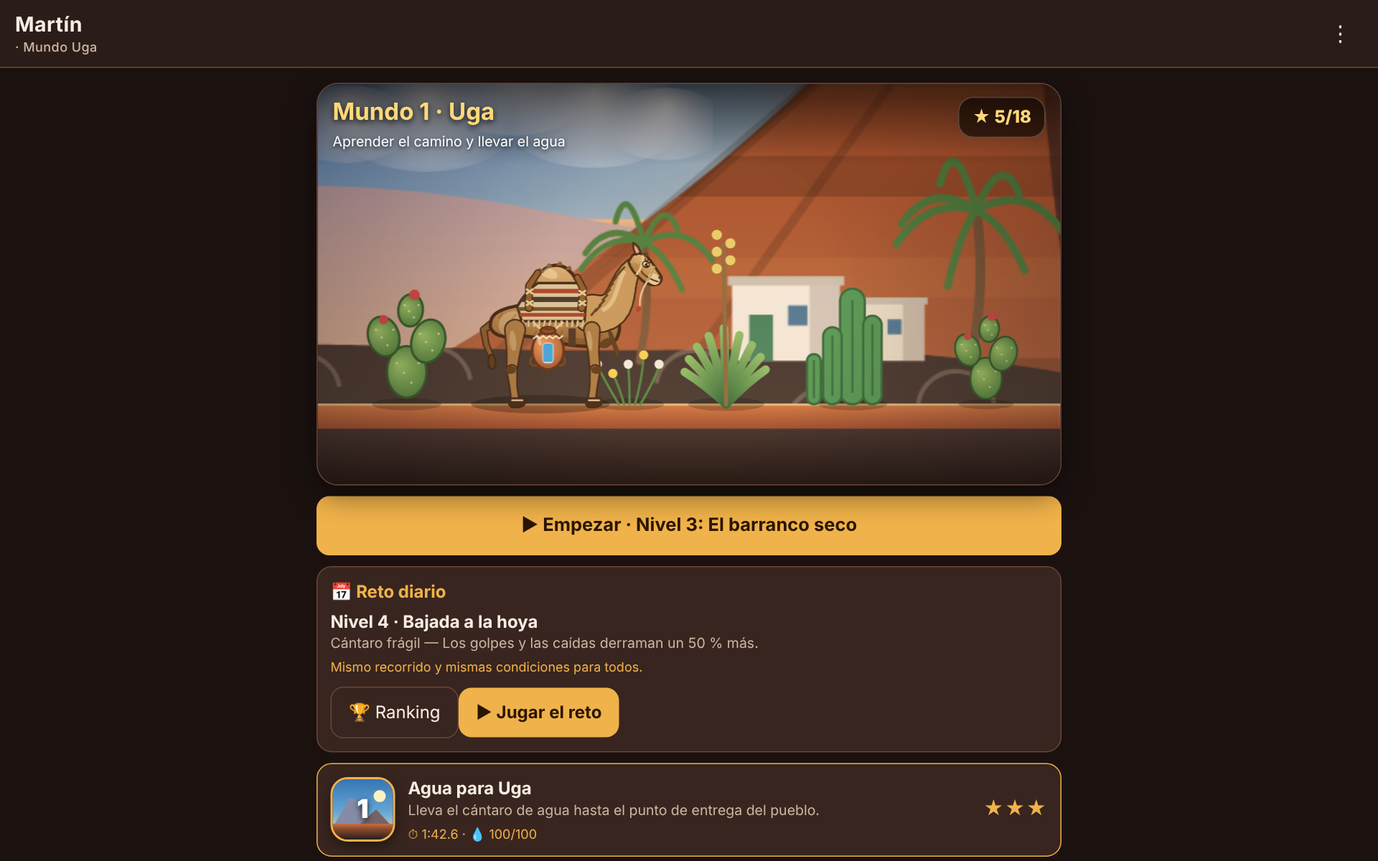
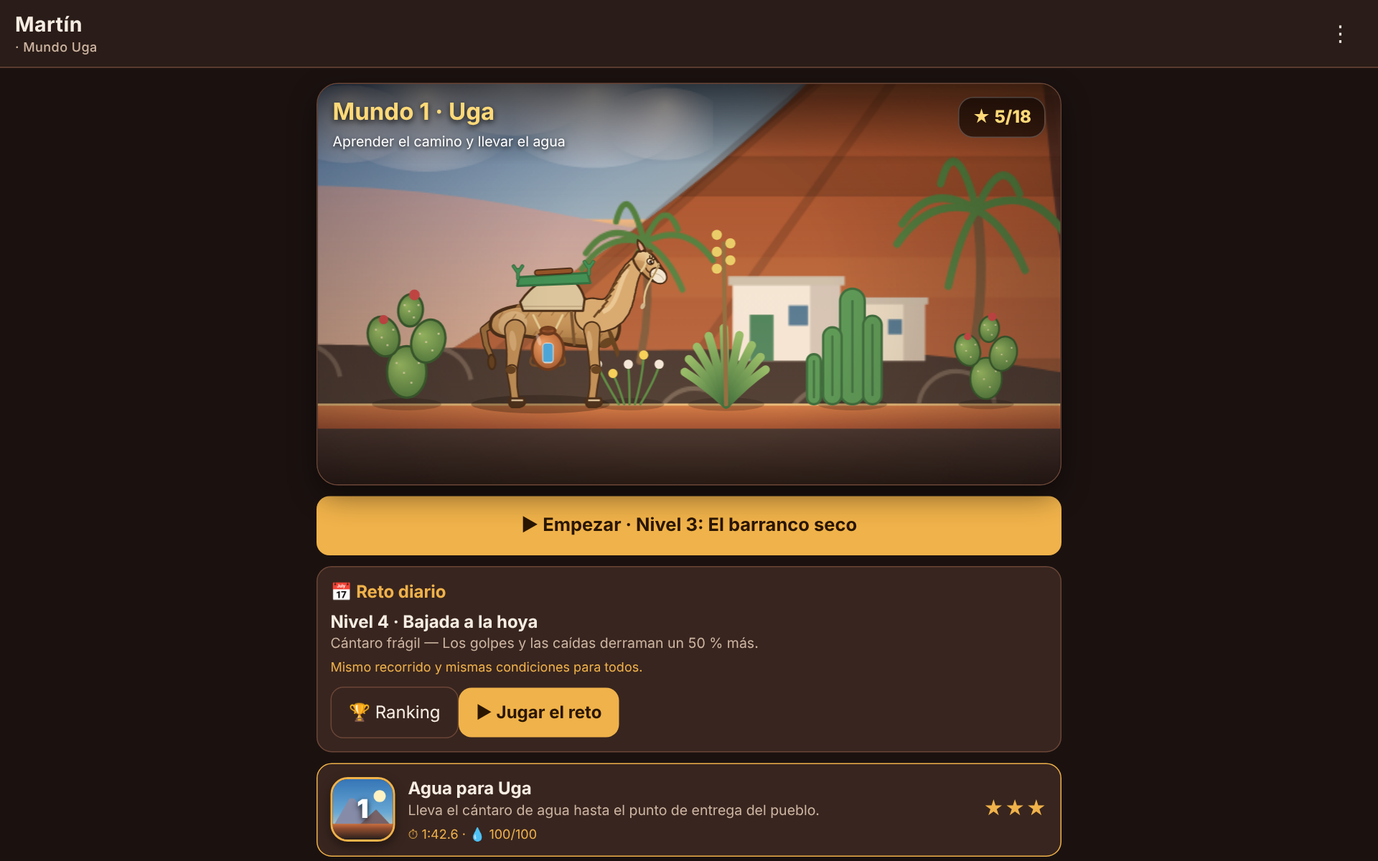
1.6.0: camello como los de Timanfaya (silla verde con asiento de cuero, manta acolchada, bozal de tela, pelaje claro)
Claude-Session: https://claude.ai/code/session_01H2Jf8v1MHtV6zTpVoU4WWj

Changed region(s): [[0.375, 0.2775, 0.5, 0.4008], [0.4688, 0.4008, 0.5, 0.4625], [0.2188, 0.4008, 0.25, 0.4317]]

diff --git a/docs/app/dibujo.js b/docs/app/dibujo.js
@@ -87,7 +87,7 @@
   function suelo(L, x, y) { let best = L.world.kill_y; for (const s of L.solids) if (s.kind !== 'oneway' && s.x0 <= x && s.x1 >= x && s.top <= y + 0.05 && s.top > best) best = s.top; return best; }
 
   /* ================== MARTÍN ================== */
-  const PEL = { luz: '#dcb67c', claro: '#c79a5e', medio: '#aa7b45', sombra: '#86592f', osc: '#5a3a1c', borde: '#3a2312', hocico: '#e6cfa0' };
+  const PEL = { luz: '#ead0a0', claro: '#d6ac74', medio: '#bd8f58', sombra: '#93693a', osc: '#5a3a1c', borde: '#3a2312', hocico: '#ecd9b4' };
 
   /* Trazo cónico (muslo, caña, cuello): primero el contorno, luego el relleno, para que no se vean costuras */
   function conico(ctx, pts, ws, fill, borde, lw) {
@@ -135,11 +135,14 @@
     // ventana de la nariz y boca sonriente
     ctx.fillStyle = '#4a2e17'; ctx.beginPath(); ctx.ellipse(0.4, -0.045, 0.016, 0.026, 0.5, 0, TAU); ctx.fill();
     ctx.strokeStyle = '#4a2e17'; ctx.lineWidth = 0.024; ctx.lineCap = 'round'; ctx.beginPath(); ctx.moveTo(0.41, -0.115); ctx.quadraticCurveTo(0.27, -0.15, 0.13, -0.115); ctx.quadraticCurveTo(0.1, -0.108, 0.09, -0.09); ctx.stroke();
+    // bozal de tela clara (como el de los camellos de Timanfaya)
+    ctx.fillStyle = '#f2ecdd'; ctx.strokeStyle = PEL.borde; ctx.lineWidth = 0.025; ctx.beginPath(); ctx.ellipse(0.33, -0.1, 0.15, 0.12, -0.2, 0, TAU); ctx.fill(); ctx.stroke();
+    ctx.strokeStyle = 'rgba(120,100,70,.4)'; ctx.lineWidth = 0.012; ctx.beginPath(); ctx.moveTo(0.22, -0.12); ctx.quadraticCurveTo(0.33, -0.04, 0.44, -0.12); ctx.stroke();
     // cabezada de cuerda natural
     ctx.strokeStyle = '#e4cf9a'; ctx.lineWidth = 0.036; ctx.beginPath(); ctx.moveTo(0.24, 0.07); ctx.quadraticCurveTo(0.27, -0.06, 0.25, -0.19); ctx.moveTo(-0.02, 0.17); ctx.quadraticCurveTo(0.08, -0.04, 0.04, -0.17); ctx.stroke();
     ctx.strokeStyle = '#8a6a3a'; ctx.lineWidth = 0.014; ctx.beginPath(); ctx.moveTo(0.24, 0.07); ctx.quadraticCurveTo(0.27, -0.06, 0.25, -0.19); ctx.stroke();
     // ramal de arrastre con borla
-    const rs = Math.sin(T * 2.3) * 0.03; ctx.strokeStyle = '#e4cf9a'; ctx.lineWidth = 0.03; ctx.beginPath(); ctx.moveTo(0.25, -0.2); ctx.quadraticCurveTo(0.2 + rs, -0.45, 0.28 + rs * 2, -0.62); ctx.stroke(); ctx.fillStyle = '#b3402a'; ctx.beginPath(); ctx.ellipse(0.28 + rs * 2, -0.67, 0.035, 0.055, rs, 0, TAU); ctx.fill();
+    const rs = Math.sin(T * 2.3) * 0.03; ctx.strokeStyle = '#e4cf9a'; ctx.lineWidth = 0.03; ctx.beginPath(); ctx.moveTo(0.25, -0.2); ctx.quadraticCurveTo(0.2 + rs, -0.45, 0.28 + rs * 2, -0.62); ctx.stroke(); ctx.fillStyle = '#cdb994'; ctx.beginPath(); ctx.ellipse(0.28 + rs * 2, -0.67, 0.035, 0.055, rs, 0, TAU); ctx.fill();
     // oreja
     const fl = Math.sin(T * 2.7) > 0.93 ? 0.35 : 0;
     ctx.save(); ctx.translate(-0.1, 0.14); ctx.rotate(0.55 + fl); ctx.fillStyle = PEL.medio; ctx.strokeStyle = PEL.borde; ctx.lineWidth = 0.03;
@@ -189,8 +192,8 @@
     // cuerpo: lomo, joroba única, pecho hondo y vientre recogido
     ctx.beginPath(); ctx.moveTo(-0.88, 1.12 + B);
     ctx.bezierCurveTo(-0.86, 1.26 + B, -0.62, 1.32 + B, -0.42, 1.34 + B);
-    ctx.bezierCurveTo(-0.34, 1.5 + B, -0.3, 1.75 + B, -0.1, 1.86 + B);
-    ctx.bezierCurveTo(0.1, 1.94 + B, 0.28, 1.8 + B, 0.34, 1.52 + B);
+    ctx.bezierCurveTo(-0.34, 1.48 + B, -0.3, 1.66 + B, -0.1, 1.72 + B);
+    ctx.bezierCurveTo(0.1, 1.78 + B, 0.28, 1.68 + B, 0.34, 1.5 + B);
     ctx.bezierCurveTo(0.38, 1.4 + B, 0.5, 1.36 + B, 0.62, 1.38 + B);
     ctx.bezierCurveTo(0.8, 1.3 + B, 0.95, 1.12 + B, 0.84, 0.88 + B);
     ctx.bezierCurveTo(0.7, 0.72 + B, 0.25, 0.76 + B, -0.1, 0.86 + B);
@@ -209,31 +212,30 @@
     ctx.fillStyle = PEL.osc; ctx.beginPath(); ctx.ellipse(0.7, 0.82 + B, 0.1, 0.06, 0.5, 0, TAU); ctx.fill();   // callo del pecho
     // pelo largo en lo alto de la joroba y en la pechera
     ctx.fillStyle = PEL.sombra; ctx.strokeStyle = PEL.borde; ctx.lineWidth = 0.02; ctx.lineJoin = 'round';
-    [[-0.28, 1.68], [-0.2, 1.8], [-0.08, 1.87], [0.06, 1.9], [0.18, 1.84], [0.28, 1.7]].forEach(([x, y], i) => { const o = Math.sin(T * 2 + i) * 0.012; ctx.beginPath(); ctx.moveTo(x - 0.045, y + B - 0.02); ctx.quadraticCurveTo(x + (i - 2.5) * 0.02, y + B + 0.1 + o, x + 0.045, y + B - 0.02); ctx.closePath(); ctx.fill(); });
+    [[-0.5, 1.3], [0.45, 1.36]].forEach(([x, y], i) => { ctx.beginPath(); ctx.moveTo(x - 0.04, y + B); ctx.quadraticCurveTo(x, y + B + 0.1, x + 0.04, y + B); ctx.closePath(); ctx.fill(); });
     ctx.fillStyle = PEL.osc; for (let i = 0; i < 5; i++) { const x = 0.74 + i * 0.02, y = 1.02 - i * 0.05 + B; ctx.beginPath(); ctx.moveTo(x, y); ctx.quadraticCurveTo(x + 0.1, y - 0.14 + Math.sin(T * 2 + i) * 0.01, x + 0.02, y - 0.2); ctx.lineTo(x - 0.03, y - 0.02); ctx.closePath(); ctx.fill(); }
     // cuello largo en S, saliendo del pecho
     const sway = Math.sin(ph * 0.5) * (corre ? 0.04 : 0.01) + Math.sin(T * 1.7) * 0.012, tip = anim === 'salta' ? 0.06 : anim === 'cae' ? -0.1 : 0;
-    const N = [[0.5, 1.22 + B], [1.0, 1.16 + B], [0.82, 1.7 + B], [1.12, 1.9 + B + tip]];
+    const N = [[0.5, 1.2 + B], [1.02, 1.12 + B], [0.84, 1.72 + B], [1.18, 1.94 + B + tip]];
     const cub = q => { const m = 1 - q; return [m * m * m * N[0][0] + 3 * m * m * q * N[1][0] + 3 * m * q * q * N[2][0] + q * q * q * N[3][0], m * m * m * N[0][1] + 3 * m * m * q * N[1][1] + 3 * m * q * q * N[2][1] + q * q * q * N[3][1]]; };
-    const pts = [], ws = []; for (let i = 0; i <= 12; i++) { const q = i / 12; pts.push(cub(q)); ws.push(0.5 - q * 0.3 + Math.sin(q * Math.PI) * 0.02); }
+    const pts = [], ws = []; for (let i = 0; i <= 12; i++) { const q = i / 12; pts.push(cub(q)); ws.push(0.44 - q * 0.27 + Math.sin(q * Math.PI) * 0.015); }
     conico(ctx, pts, ws, PEL.claro, PEL.borde, 0.045);
     ctx.strokeStyle = 'rgba(255,240,200,.45)'; ctx.lineWidth = 0.06; ctx.beginPath(); for (let i = 2; i <= 10; i++) { const [x, y] = pts[i]; i === 2 ? ctx.moveTo(x - 0.06, y + 0.03) : ctx.lineTo(x - 0.06, y + 0.03); } ctx.stroke();
     ctx.strokeStyle = PEL.osc; ctx.lineWidth = 0.028; for (let i = 3; i < 12; i++) { const [x, y] = pts[i]; ctx.beginPath(); ctx.moveTo(x - ws[i] * 0.45, y + 0.02); ctx.lineTo(x - ws[i] * 0.45 - 0.08, y - 0.07 + Math.sin(T * 3 + i) * 0.01); ctx.stroke(); }
     ctx.fillStyle = PEL.osc; ctx.beginPath(); ctx.moveTo(pts[3][0] + 0.18, pts[3][1] - 0.2); for (let i = 3; i <= 7; i++) { const [x, y] = pts[i]; ctx.lineTo(x + ws[i] * 0.42, y - 0.12 * (1 - (i - 3) / 5) - ws[i] * 0.2); } ctx.globalAlpha *= 0; ctx.fill(); ctx.globalAlpha = st.alpha == null ? 1 : st.alpha;
     // cabeza (pequeña, con el belfo caído)
     ctx.save(); ctx.translate(pts[12][0] + 0.03, pts[12][1] + 0.0); ctx.rotate(-0.5 - tip * 0.8 + sway); ctx.scale(0.82, 0.82); cabeza(ctx, T, st); ctx.restore();
-    // armazón de madera (dos horcones que abrazan la joroba), manta de lana y cincha
-    const madera = '#8d5a2c';
-    ctx.beginPath(); ctx.moveTo(-0.46, 1.12 + B); ctx.lineTo(-0.52, 1.32 + B); ctx.bezierCurveTo(-0.42, 1.5 + B, -0.3, 1.6 + B, -0.24, 1.64 + B); ctx.lineTo(0.3, 1.64 + B); ctx.bezierCurveTo(0.36, 1.58 + B, 0.4, 1.5 + B, 0.42, 1.4 + B); ctx.lineTo(0.4, 1.12 + B); ctx.closePath();
-    ctx.fillStyle = '#d9c7a0'; ctx.fill(); ctx.strokeStyle = PEL.borde; ctx.lineWidth = 0.035; ctx.stroke();
-    ctx.save(); ctx.clip();
-    for (const [yy, c, w] of [[1.5, '#a8402a', 0.06], [1.38, '#3d322b', 0.07], [1.26, '#6b4a2b', 0.05], [1.18, '#a8402a', 0.05]]) { ctx.fillStyle = c; ctx.fillRect(-0.7, yy + B, 1.3, w); }
-    ctx.restore();
-    ctx.strokeStyle = '#d9c7a0'; ctx.lineWidth = 0.026; for (let i = 0; i < 12; i++) { const x = -0.44 + i * 0.075; ctx.beginPath(); ctx.moveTo(x, 1.13 + B); ctx.lineTo(x - 0.01 + Math.sin(ph + i) * 0.012, 1.04 + B); ctx.stroke(); }
-    conico(ctx, [[-0.36, 1.3 + B], [-0.36, 1.6 + B], [-0.24, 1.78 + B]], [0.08, 0.07, 0.06], madera, PEL.borde, 0.035);
-    conico(ctx, [[0.36, 1.3 + B], [0.38, 1.56 + B], [0.3, 1.72 + B]], [0.08, 0.07, 0.06], madera, PEL.borde, 0.035);
-    ctx.strokeStyle = '#e4cf9a'; ctx.lineWidth = 0.028; for (const [x, y] of [[-0.35, 1.52], [0.37, 1.5], [-0.35, 1.36], [0.37, 1.36]]) { ctx.beginPath(); ctx.moveTo(x - 0.05, y - 0.03 + B); ctx.lineTo(x + 0.05, y + 0.04 + B); ctx.moveTo(x - 0.05, y + 0.04 + B); ctx.lineTo(x + 0.05, y - 0.03 + B); ctx.stroke(); }
-    ctx.fillStyle = '#4a3322'; ctx.fillRect(0.18, 0.78 + B, 0.1, 0.24);   // cincha bajo el vientre
+    // manta acolchada beige y silla de carga verde con asientos de cuero (como las de Timanfaya)
+    const verde = '#2f8f55', verdeO = '#1f6a3d', cuero = '#8a4a22';
+    ctx.beginPath(); ctx.moveTo(-0.44, 1.26 + B); ctx.lineTo(-0.48, 1.38 + B); ctx.bezierCurveTo(-0.4, 1.5 + B, -0.28, 1.62 + B, -0.2, 1.64 + B); ctx.lineTo(0.28, 1.64 + B); ctx.bezierCurveTo(0.34, 1.58 + B, 0.38, 1.5 + B, 0.4, 1.42 + B); ctx.lineTo(0.38, 1.26 + B); ctx.closePath();
+    ctx.fillStyle = '#d8c9a4'; ctx.fill(); ctx.strokeStyle = PEL.borde; ctx.lineWidth = 0.03; ctx.stroke();
+    ctx.strokeStyle = 'rgba(120,95,65,.35)'; ctx.lineWidth = 0.014; ctx.beginPath(); ctx.moveTo(-0.45, 1.32 + B); ctx.lineTo(0.39, 1.32 + B); ctx.stroke();
+    // asiento verde inclinado con cojín de cuero y horquillas en los extremos
+    ctx.beginPath(); ctx.moveTo(-0.52, 1.6 + B); ctx.lineTo(-0.5, 1.72 + B); ctx.lineTo(0.44, 1.78 + B); ctx.lineTo(0.48, 1.64 + B); ctx.closePath(); ctx.fillStyle = verde; ctx.fill(); ctx.strokeStyle = verdeO; ctx.lineWidth = 0.03; ctx.stroke();
+    ctx.save(); ctx.translate(-0.02, 1.76 + B); ctx.rotate(0.06); ctx.fillStyle = cuero; rr(ctx, -0.26, 0, 0.52, 0.07, 0.035); ctx.fill(); ctx.strokeStyle = PEL.borde; ctx.lineWidth = 0.018; ctx.stroke(); ctx.restore();
+    for (const [x, s, y] of [[-0.51, -1, 1.7], [0.46, 1, 1.76]]) { ctx.lineCap = 'round'; for (const [c, w] of [[verdeO, 0.05], [verde, 0.028]]) { ctx.strokeStyle = c; ctx.lineWidth = w; ctx.beginPath(); ctx.moveTo(x, y + B); ctx.lineTo(x, y + 0.12 + B); ctx.moveTo(x, y + 0.08 + B); ctx.lineTo(x + 0.06, y + 0.17 + B); ctx.moveTo(x, y + 0.08 + B); ctx.lineTo(x - 0.06, y + 0.17 + B); ctx.stroke(); } }
+    // correa de pecho y cincha
+    ctx.strokeStyle = '#6b4a2b'; ctx.lineWidth = 0.04; ctx.beginPath(); ctx.moveTo(0.22, 1.24 + B); ctx.lineTo(0.26, 0.8 + B); ctx.stroke();
     ctx.restore();
     // patas cercanas
     ctx.save(); ctx.translate(0, hipY); ctx.rotate(cabeceo * 0.4); ctx.translate(0, -hipY);
@@ -242,14 +244,14 @@
     // tinaja colgada de la silla con cuerdas, entre las patas
     ctx.save(); ctx.translate(0, hipY); ctx.rotate(cabeceo); ctx.translate(0, -hipY);
     const jx = -0.1, jy = 0.52 + B + (anim === 'gana' ? 0.14 : 0) + (corre ? Math.sin(ph * 2) * 0.014 : 0);
-    ctx.strokeStyle = '#e4cf9a'; ctx.lineWidth = 0.03; ctx.lineCap = 'round'; ctx.beginPath(); ctx.moveTo(jx - 0.11, jy + 0.5); ctx.lineTo(jx - 0.2, 1.1 + B); ctx.moveTo(jx + 0.11, jy + 0.5); ctx.lineTo(jx + 0.2, 1.1 + B); ctx.stroke();
+    ctx.strokeStyle = '#e4cf9a'; ctx.lineWidth = 0.03; ctx.lineCap = 'round'; ctx.beginPath(); ctx.moveTo(jx - 0.11, jy + 0.5); ctx.lineTo(jx - 0.2, 1.2 + B); ctx.moveTo(jx + 0.11, jy + 0.5); ctx.lineTo(jx + 0.2, 1.2 + B); ctx.stroke();
     ctx.translate(jx, jy); ctx.scale(0.9, 0.9); ctx.translate(-jx, -jy);
     ctx.strokeStyle = '#6a4424'; ctx.lineWidth = 0.034; ctx.beginPath(); ctx.moveTo(jx - 0.22, jy + 0.16); ctx.quadraticCurveTo(jx - 0.36, jy - 0.04, jx - 0.1, jy - 0.01); ctx.moveTo(jx + 0.22, jy + 0.16); ctx.quadraticCurveTo(jx + 0.34, jy - 0.03, jx + 0.1, jy - 0.01); ctx.stroke();
     ctx.beginPath(); ctx.ellipse(jx, jy + 0.22, 0.24, 0.29, 0, 0, TAU);
     g = ctx.createRadialGradient(jx - 0.09, jy + 0.34, 0.02, jx, jy + 0.22, 0.34); g.addColorStop(0, '#e89862'); g.addColorStop(0.6, COL.cantaro); g.addColorStop(1, COL.cantaro2); ctx.fillStyle = g; ctx.fill(); ctx.strokeStyle = '#5e2f17'; ctx.lineWidth = 0.04; ctx.stroke();
     ctx.fillStyle = COL.cantaro2; ctx.beginPath(); ctx.ellipse(jx, jy + 0.52, 0.11, 0.055, 0, 0, TAU); ctx.fill(); ctx.stroke();
     ctx.fillStyle = '#6a3518'; ctx.beginPath(); ctx.ellipse(jx, jy + 0.55, 0.08, 0.028, 0, 0, TAU); ctx.fill();
-    ctx.strokeStyle = 'rgba(255,240,200,.9)'; ctx.lineWidth = 0.024; ctx.beginPath(); for (let i = 0; i <= 9; i++) { const x = jx - 0.22 + i * 0.049, y = jy + 0.4 + (i % 2) * 0.04; i ? ctx.lineTo(x, y) : ctx.moveTo(x, y); } ctx.stroke();
+    ctx.strokeStyle = 'rgba(90,45,22,.45)'; ctx.lineWidth = 0.02; ctx.beginPath(); ctx.ellipse(jx, jy + 0.22, 0.23, 0.28, 0, Math.PI * 0.12, Math.PI * 0.88); ctx.stroke();
     ctx.fillStyle = '#0d2233'; rr(ctx, jx - 0.08, jy + 0.03, 0.16, 0.3, 0.05); ctx.fill();
     ctx.save(); rr(ctx, jx - 0.08, jy + 0.03, 0.16, 0.3, 0.05); ctx.clip();
     const bajo = f < 0.3, hh = 0.3 * f; ctx.fillStyle = bajo ? '#ffd24a' : COL.agua; ctx.fillRect(jx - 0.1, jy + 0.03 + (0.3 - hh), 0.2, hh + 0.01); ctx.fillStyle = 'rgba(255,255,255,.55)'; ctx.fillRect(jx - 0.1, jy + 0.03 + (0.3 - hh), 0.2, 0.02);

diff --git a/www/dibujo.js b/www/dibujo.js
@@ -87,7 +87,7 @@
   function suelo(L, x, y) { let best = L.world.kill_y; for (const s of L.solids) if (s.kind !== 'oneway' && s.x0 <= x && s.x1 >= x && s.top <= y + 0.05 && s.top > best) best = s.top; return best; }
 
   /* ================== MARTÍN ================== */
-  const PEL = { luz: '#dcb67c', claro: '#c79a5e', medio: '#aa7b45', sombra: '#86592f', osc: '#5a3a1c', borde: '#3a2312', hocico: '#e6cfa0' };
+  const PEL = { luz: '#ead0a0', claro: '#d6ac74', medio: '#bd8f58', sombra: '#93693a', osc: '#5a3a1c', borde: '#3a2312', hocico: '#ecd9b4' };
 
   /* Trazo cónico (muslo, caña, cuello): primero el contorno, luego el relleno, para que no se vean costuras */
   function conico(ctx, pts, ws, fill, borde, lw) {
@@ -135,11 +135,14 @@
     // ventana de la nariz y boca sonriente
     ctx.fillStyle = '#4a2e17'; ctx.beginPath(); ctx.ellipse(0.4, -0.045, 0.016, 0.026, 0.5, 0, TAU); ctx.fill();
     ctx.strokeStyle = '#4a2e17'; ctx.lineWidth = 0.024; ctx.lineCap = 'round'; ctx.beginPath(); ctx.moveTo(0.41, -0.115); ctx.quadraticCurveTo(0.27, -0.15, 0.13, -0.115); ctx.quadraticCurveTo(0.1, -0.108, 0.09, -0.09); ctx.stroke();
+    // bozal de tela clara (como el de los camellos de Timanfaya)
+    ctx.fillStyle = '#f2ecdd'; ctx.strokeStyle = PEL.borde; ctx.lineWidth = 0.025; ctx.beginPath(); ctx.ellipse(0.33, -0.1, 0.15, 0.12, -0.2, 0, TAU); ctx.fill(); ctx.stroke();
+    ctx.strokeStyle = 'rgba(120,100,70,.4)'; ctx.lineWidth = 0.012; ctx.beginPath(); ctx.moveTo(0.22, -0.12); ctx.quadraticCurveTo(0.33, -0.04, 0.44, -0.12); ctx.stroke();
     // cabezada de cuerda natural
     ctx.strokeStyle = '#e4cf9a'; ctx.lineWidth = 0.036; ctx.beginPath(); ctx.moveTo(0.24, 0.07); ctx.quadraticCurveTo(0.27, -0.06, 0.25, -0.19); ctx.moveTo(-0.02, 0.17); ctx.quadraticCurveTo(0.08, -0.04, 0.04, -0.17); ctx.stroke();
     ctx.strokeStyle = '#8a6a3a'; ctx.lineWidth = 0.014; ctx.beginPath(); ctx.moveTo(0.24, 0.07); ctx.quadraticCurveTo(0.27, -0.06, 0.25, -0.19); ctx.stroke();
     // ramal de arrastre con borla
-    const rs = Math.sin(T * 2.3) * 0.03; ctx.strokeStyle = '#e4cf9a'; ctx.lineWidth = 0.03; ctx.beginPath(); ctx.moveTo(0.25, -0.2); ctx.quadraticCurveTo(0.2 + rs, -0.45, 0.28 + rs * 2, -0.62); ctx.stroke(); ctx.fillStyle = '#b3402a'; ctx.beginPath(); ctx.ellipse(0.28 + rs * 2, -0.67, 0.035, 0.055, rs, 0, TAU); ctx.fill();
+    const rs = Math.sin(T * 2.3) * 0.03; ctx.strokeStyle = '#e4cf9a'; ctx.lineWidth = 0.03; ctx.beginPath(); ctx.moveTo(0.25, -0.2); ctx.quadraticCurveTo(0.2 + rs, -0.45, 0.28 + rs * 2, -0.62); ctx.stroke(); ctx.fillStyle = '#cdb994'; ctx.beginPath(); ctx.ellipse(0.28 + rs * 2, -0.67, 0.035, 0.055, rs, 0, TAU); ctx.fill();
     // oreja
     const fl = Math.sin(T * 2.7) > 0.93 ? 0.35 : 0;
     ctx.save(); ctx.translate(-0.1, 0.14); ctx.rotate(0.55 + fl); ctx.fillStyle = PEL.medio; ctx.strokeStyle = PEL.borde; ctx.lineWidth = 0.03;
@@ -189,8 +192,8 @@
     // cuerpo: lomo, joroba única, pecho hondo y vientre recogido
     ctx.beginPath(); ctx.moveTo(-0.88, 1.12 + B);
     ctx.bezierCurveTo(-0.86, 1.26 + B, -0.62, 1.32 + B, -0.42, 1.34 + B);
-    ctx.bezierCurveTo(-0.34, 1.5 + B, -0.3, 1.75 + B, -0.1, 1.86 + B);
-    ctx.bezierCurveTo(0.1, 1.94 + B, 0.28, 1.8 + B, 0.34, 1.52 + B);
+    ctx.bezierCurveTo(-0.34, 1.48 + B, -0.3, 1.66 + B, -0.1, 1.72 + B);
+    ctx.bezierCurveTo(0.1, 1.78 + B, 0.28, 1.68 + B, 0.34, 1.5 + B);
     ctx.bezierCurveTo(0.38, 1.4 + B, 0.5, 1.36 + B, 0.62, 1.38 + B);
     ctx.bezierCurveTo(0.8, 1.3 + B, 0.95, 1.12 + B, 0.84, 0.88 + B);
     ctx.bezierCurveTo(0.7, 0.72 + B, 0.25, 0.76 + B, -0.1, 0.86 + B);
@@ -209,31 +212,30 @@
     ctx.fillStyle = PEL.osc; ctx.beginPath(); ctx.ellipse(0.7, 0.82 + B, 0.1, 0.06, 0.5, 0, TAU); ctx.fill();   // callo del pecho
     // pelo largo en lo alto de la joroba y en la pechera
     ctx.fillStyle = PEL.sombra; ctx.strokeStyle = PEL.borde; ctx.lineWidth = 0.02; ctx.lineJoin = 'round';
-    [[-0.28, 1.68], [-0.2, 1.8], [-0.08, 1.87], [0.06, 1.9], [0.18, 1.84], [0.28, 1.7]].forEach(([x, y], i) => { const o = Math.sin(T * 2 + i) * 0.012; ctx.beginPath(); ctx.moveTo(x - 0.045, y + B - 0.02); ctx.quadraticCurveTo(x + (i - 2.5) * 0.02, y + B + 0.1 + o, x + 0.045, y + B - 0.02); ctx.closePath(); ctx.fill(); });
+    [[-0.5, 1.3], [0.45, 1.36]].forEach(([x, y], i) => { ctx.beginPath(); ctx.moveTo(x - 0.04, y + B); ctx.quadraticCurveTo(x, y + B + 0.1, x + 0.04, y + B); ctx.closePath(); ctx.fill(); });
     ctx.fillStyle = PEL.osc; for (let i = 0; i < 5; i++) { const x = 0.74 + i * 0.02, y = 1.02 - i * 0.05 + B; ctx.beginPath(); ctx.moveTo(x, y); ctx.quadraticCurveTo(x + 0.1, y - 0.14 + Math.sin(T * 2 + i) * 0.01, x + 0.02, y - 0.2); ctx.lineTo(x - 0.03, y - 0.02); ctx.closePath(); ctx.fill(); }
     // cuello largo en S, saliendo del pecho
     const sway = Math.sin(ph * 0.5) * (corre ? 0.04 : 0.01) + Math.sin(T * 1.7) * 0.012, tip = anim === 'salta' ? 0.06 : anim === 'cae' ? -0.1 : 0;
-    const N = [[0.5, 1.22 + B], [1.0, 1.16 + B], [0.82, 1.7 + B], [1.12, 1.9 + B + tip]];
+    const N = [[0.5, 1.2 + B], [1.02, 1.12 + B], [0.84, 1.72 + B], [1.18, 1.94 + B + tip]];
     const cub = q => { const m = 1 - q; return [m * m * m * N[0][0] + 3 * m * m * q * N[1][0] + 3 * m * q * q * N[2][0] + q * q * q * N[3][0], m * m * m * N[0][1] + 3 * m * m * q * N[1][1] + 3 * m * q * q * N[2][1] + q * q * q * N[3][1]]; };
-    const pts = [], ws = []; for (let i = 0; i <= 12; i++) { const q = i / 12; pts.push(cub(q)); ws.push(0.5 - q * 0.3 + Math.sin(q * Math.PI) * 0.02); }
+    const pts = [], ws = []; for (let i = 0; i <= 12; i++) { const q = i / 12; pts.push(cub(q)); ws.push(0.44 - q * 0.27 + Math.sin(q * Math.PI) * 0.015); }
     conico(ctx, pts, ws, PEL.claro, PEL.borde, 0.045);
     ctx.strokeStyle = 'rgba(255,240,200,.45)'; ctx.lineWidth = 0.06; ctx.beginPath(); for (let i = 2; i <= 10; i++) { const [x, y] = pts[i]; i === 2 ? ctx.moveTo(x - 0.06, y + 0.03) : ctx.lineTo(x - 0.06, y + 0.03); } ctx.stroke();
     ctx.strokeStyle = PEL.osc; ctx.lineWidth = 0.028; for (let i = 3; i < 12; i++) { const [x, y] = pts[i]; ctx.beginPath(); ctx.moveTo(x - ws[i] * 0.45, y + 0.02); ctx.lineTo(x - ws[i] * 0.45 - 0.08, y - 0.07 + Math.sin(T * 3 + i) * 0.01); ctx.stroke(); }
     ctx.fillStyle = PEL.osc; ctx.beginPath(); ctx.moveTo(pts[3][0] + 0.18, pts[3][1] - 0.2); for (let i = 3; i <= 7; i++) { const [x, y] = pts[i]; ctx.lineTo(x + ws[i] * 0.42, y - 0.12 * (1 - (i - 3) / 5) - ws[i] * 0.2); } ctx.globalAlpha *= 0; ctx.fill(); ctx.globalAlpha = st.alpha == null ? 1 : st.alpha;
     // cabeza (pequeña, con el belfo caído)
     ctx.save(); ctx.translate(pts[12][0] + 0.03, pts[12][1] + 0.0); ctx.rotate(-0.5 - tip * 0.8 + sway); ctx.scale(0.82, 0.82); cabeza(ctx, T, st); ctx.restore();
-    // armazón de madera (dos horcones que abrazan la joroba), manta de lana y cincha
-    const madera = '#8d5a2c';
-    ctx.beginPath(); ctx.moveTo(-0.46, 1.12 + B); ctx.lineTo(-0.52, 1.32 + B); ctx.bezierCurveTo(-0.42, 1.5 + B, -0.3, 1.6 + B, -0.24, 1.64 + B); ctx.lineTo(0.3, 1.64 + B); ctx.bezierCurveTo(0.36, 1.58 + B, 0.4, 1.5 + B, 0.42, 1.4 + B); ctx.lineTo(0.4, 1.12 + B); ctx.closePath();
-    ctx.fillStyle = '#d9c7a0'; ctx.fill(); ctx.strokeStyle = PEL.borde; ctx.lineWidth = 0.035; ctx.stroke();
-    ctx.save(); ctx.clip();
-    for (const [yy, c, w] of [[1.5, '#a8402a', 0.06], [1.38, '#3d322b', 0.07], [1.26, '#6b4a2b', 0.05], [1.18, '#a8402a', 0.05]]) { ctx.fillStyle = c; ctx.fillRect(-0.7, yy + B, 1.3, w); }
-    ctx.restore();
-    ctx.strokeStyle = '#d9c7a0'; ctx.lineWidth = 0.026; for (let i = 0; i < 12; i++) { const x = -0.44 + i * 0.075; ctx.beginPath(); ctx.moveTo(x, 1.13 + B); ctx.lineTo(x - 0.01 + Math.sin(ph + i) * 0.012, 1.04 + B); ctx.stroke(); }
-    conico(ctx, [[-0.36, 1.3 + B], [-0.36, 1.6 + B], [-0.24, 1.78 + B]], [0.08, 0.07, 0.06], madera, PEL.borde, 0.035);
-    conico(ctx, [[0.36, 1.3 + B], [0.38, 1.56 + B], [0.3, 1.72 + B]], [0.08, 0.07, 0.06], madera, PEL.borde, 0.035);
-    ctx.strokeStyle = '#e4cf9a'; ctx.lineWidth = 0.028; for (const [x, y] of [[-0.35, 1.52], [0.37, 1.5], [-0.35, 1.36], [0.37, 1.36]]) { ctx.beginPath(); ctx.moveTo(x - 0.05, y - 0.03 + B); ctx.lineTo(x + 0.05, y + 0.04 + B); ctx.moveTo(x - 0.05, y + 0.04 + B); ctx.lineTo(x + 0.05, y - 0.03 + B); ctx.stroke(); }
-    ctx.fillStyle = '#4a3322'; ctx.fillRect(0.18, 0.78 + B, 0.1, 0.24);   // cincha bajo el vientre
+    // manta acolchada beige y silla de carga verde con asientos de cuero (como las de Timanfaya)
+    const verde = '#2f8f55', verdeO = '#1f6a3d', cuero = '#8a4a22';
+    ctx.beginPath(); ctx.moveTo(-0.44, 1.26 + B); ctx.lineTo(-0.48, 1.38 + B); ctx.bezierCurveTo(-0.4, 1.5 + B, -0.28, 1.62 + B, -0.2, 1.64 + B); ctx.lineTo(0.28, 1.64 + B); ctx.bezierCurveTo(0.34, 1.58 + B, 0.38, 1.5 + B, 0.4, 1.42 + B); ctx.lineTo(0.38, 1.26 + B); ctx.closePath();
+    ctx.fillStyle = '#d8c9a4'; ctx.fill(); ctx.strokeStyle = PEL.borde; ctx.lineWidth = 0.03; ctx.stroke();
+    ctx.strokeStyle = 'rgba(120,95,65,.35)'; ctx.lineWidth = 0.014; ctx.beginPath(); ctx.moveTo(-0.45, 1.32 + B); ctx.lineTo(0.39, 1.32 + B); ctx.stroke();
+    // asiento verde inclinado con cojín de cuero y horquillas en los extremos
+    ctx.beginPath(); ctx.moveTo(-0.52, 1.6 + B); ctx.lineTo(-0.5, 1.72 + B); ctx.lineTo(0.44, 1.78 + B); ctx.lineTo(0.48, 1.64 + B); ctx.closePath(); ctx.fillStyle = verde; ctx.fill(); ctx.strokeStyle = verdeO; ctx.lineWidth = 0.03; ctx.stroke();
+    ctx.save(); ctx.translate(-0.02, 1.76 + B); ctx.rotate(0.06); ctx.fillStyle = cuero; rr(ctx, -0.26, 0, 0.52, 0.07, 0.035); ctx.fill(); ctx.strokeStyle = PEL.borde; ctx.lineWidth = 0.018; ctx.stroke(); ctx.restore();
+    for (const [x, s, y] of [[-0.51, -1, 1.7], [0.46, 1, 1.76]]) { ctx.lineCap = 'round'; for (const [c, w] of [[verdeO, 0.05], [verde, 0.028]]) { ctx.strokeStyle = c; ctx.lineWidth = w; ctx.beginPath(); ctx.moveTo(x, y + B); ctx.lineTo(x, y + 0.12 + B); ctx.moveTo(x, y + 0.08 + B); ctx.lineTo(x + 0.06, y + 0.17 + B); ctx.moveTo(x, y + 0.08 + B); ctx.lineTo(x - 0.06, y + 0.17 + B); ctx.stroke(); } }
+    // correa de pecho y cincha
+    ctx.strokeStyle = '#6b4a2b'; ctx.lineWidth = 0.04; ctx.beginPath(); ctx.moveTo(0.22, 1.24 + B); ctx.lineTo(0.26, 0.8 + B); ctx.stroke();
     ctx.restore();
     // patas cercanas
     ctx.save(); ctx.translate(0, hipY); ctx.rotate(cabeceo * 0.4); ctx.translate(0, -hipY);
@@ -242,14 +244,14 @@
     // tinaja colgada de la silla con cuerdas, entre las patas
     ctx.save(); ctx.translate(0, hipY); ctx.rotate(cabeceo); ctx.translate(0, -hipY);
     const jx = -0.1, jy = 0.52 + B + (anim === 'gana' ? 0.14 : 0) + (corre ? Math.sin(ph * 2) * 0.014 : 0);
-    ctx.strokeStyle = '#e4cf9a'; ctx.lineWidth = 0.03; ctx.lineCap = 'round'; ctx.beginPath(); ctx.moveTo(jx - 0.11, jy + 0.5); ctx.lineTo(jx - 0.2, 1.1 + B); ctx.moveTo(jx + 0.11, jy + 0.5); ctx.lineTo(jx + 0.2, 1.1 + B); ctx.stroke();
+    ctx.strokeStyle = '#e4cf9a'; ctx.lineWidth = 0.03; ctx.lineCap = 'round'; ctx.beginPath(); ctx.moveTo(jx - 0.11, jy + 0.5); ctx.lineTo(jx - 0.2, 1.2 + B); ctx.moveTo(jx + 0.11, jy + 0.5); ctx.lineTo(jx + 0.2, 1.2 + B); ctx.stroke();
     ctx.translate(jx, jy); ctx.scale(0.9, 0.9); ctx.translate(-jx, -jy);
     ctx.strokeStyle = '#6a4424'; ctx.lineWidth = 0.034; ctx.beginPath(); ctx.moveTo(jx - 0.22, jy + 0.16); ctx.quadraticCurveTo(jx - 0.36, jy - 0.04, jx - 0.1, jy - 0.01); ctx.moveTo(jx + 0.22, jy + 0.16); ctx.quadraticCurveTo(jx + 0.34, jy - 0.03, jx + 0.1, jy - 0.01); ctx.stroke();
     ctx.beginPath(); ctx.ellipse(jx, jy + 0.22, 0.24, 0.29, 0, 0, TAU);
     g = ctx.createRadialGradient(jx - 0.09, jy + 0.34, 0.02, jx, jy + 0.22, 0.34); g.addColorStop(0, '#e89862'); g.addColorStop(0.6, COL.cantaro); g.addColorStop(1, COL.cantaro2); ctx.fillStyle = g; ctx.fill(); ctx.strokeStyle = '#5e2f17'; ctx.lineWidth = 0.04; ctx.stroke();
     ctx.fillStyle = COL.cantaro2; ctx.beginPath(); ctx.ellipse(jx, jy + 0.52, 0.11, 0.055, 0, 0, TAU); ctx.fill(); ctx.stroke();
     ctx.fillStyle = '#6a3518'; ctx.beginPath(); ctx.ellipse(jx, jy + 0.55, 0.08, 0.028, 0, 0, TAU); ctx.fill();
-    ctx.strokeStyle = 'rgba(255,240,200,.9)'; ctx.lineWidth = 0.024; ctx.beginPath(); for (let i = 0; i <= 9; i++) { const x = jx - 0.22 + i * 0.049, y = jy + 0.4 + (i % 2) * 0.04; i ? ctx.lineTo(x, y) : ctx.moveTo(x, y); } ctx.stroke();
+    ctx.strokeStyle = 'rgba(90,45,22,.45)'; ctx.lineWidth = 0.02; ctx.beginPath(); ctx.ellipse(jx, jy + 0.22, 0.23, 0.28, 0, Math.PI * 0.12, Math.PI * 0.88); ctx.stroke();
     ctx.fillStyle = '#0d2233'; rr(ctx, jx - 0.08, jy + 0.03, 0.16, 0.3, 0.05); ctx.fill();
     ctx.save(); rr(ctx, jx - 0.08, jy + 0.03, 0.16, 0.3, 0.05); ctx.clip();
     const bajo = f < 0.3, hh = 0.3 * f; ctx.fillStyle = bajo ? '#ffd24a' : COL.agua; ctx.fillRect(jx - 0.1, jy + 0.03 + (0.3 - hh), 0.2, hh + 0.01); ctx.fillStyle = 'rgba(255,255,255,.55)'; ctx.fillRect(jx - 0.1, jy + 0.03 + (0.3 - hh), 0.2, 0.02);

diff --git a/docs/app/sw.js b/docs/app/sw.js
@@ -1,7 +1,7 @@
 // Service worker: deja la versión web disponible sin conexión.
 // En la app Android no hace falta (los archivos ya van dentro del APK) y podría servir
 // una versión antigua tras actualizar, así que allí se da de baja solo.
-const CACHE = 'martin-v1.5.0';
+const CACHE = 'martin-v1.6.0';
 const ASSETS = ['./', 'index.html', 'martin.js', 'niveles.js', 'juego.js', 'dibujo.js', 'manifest.webmanifest', 'icons/icon-192.png', 'icons/icon-512.png', 'icons/icon-maskable-512.png', 'icons/apple-touch-icon.png', 'i18n-en.js', 'i18n-fr.js', 'i18n-de.js', 'i18n-it.js', 'idioma.js', 'masjuegos.js', 'audio-suave.js', 'turno.js', 'contador.js', 'invitacion.js', 'publicas.js', 'juegos/ajedrez.png', 'juegos/chinchon.png', 'juegos/pumba.png', 'juegos/damas.png', 'juegos/parchis.png', 'juegos/poker.png', 'juegos/uno.png', 'juegos/martin.png'];
 const NATIVE = self.location.hostname === 'localhost' && self.location.protocol === 'https:';
 

diff --git a/www/sw.js b/www/sw.js
@@ -1,7 +1,7 @@
 // Service worker: deja la versión web disponible sin conexión.
 // En la app Android no hace falta (los archivos ya van dentro del APK) y podría servir
 // una versión antigua tras actualizar, así que allí se da de baja solo.
-const CACHE = 'martin-v1.5.0';
+const CACHE = 'martin-v1.6.0';
 const ASSETS = ['./', 'index.html', 'martin.js', 'niveles.js', 'juego.js', 'dibujo.js', 'manifest.webmanifest', 'icons/icon-192.png', 'icons/icon-512.png', 'icons/icon-maskable-512.png', 'icons/apple-touch-icon.png', 'i18n-en.js', 'i18n-fr.js', 'i18n-de.js', 'i18n-it.js', 'idioma.js', 'masjuegos.js', 'audio-suave.js', 'turno.js', 'contador.js', 'invitacion.js', 'publicas.js', 'juegos/ajedrez.png', 'juegos/chinchon.png', 'juegos/pumba.png', 'juegos/damas.png', 'juegos/parchis.png', 'juegos/poker.png', 'juegos/uno.png', 'juegos/martin.png'];
 const NATIVE = self.location.hostname === 'localhost' && self.location.protocol === 'https:';
 

diff --git a/docs/app/index.html b/docs/app/index.html
@@ -406,7 +406,7 @@ function openThemes() {
   AvisoTurno.enlazar();
 }
 
-const APP_VERSION = '1.5.0';
+const APP_VERSION = '1.6.0';
 const REPO = 'csuarezsm/Martin';
 const MAX_ARCHIVE = 500;
 const uid = () => Math.random().toString(36).slice(2, 10);

diff --git a/www/index.html b/www/index.html
@@ -406,7 +406,7 @@ function openThemes() {
   AvisoTurno.enlazar();
 }
 
-const APP_VERSION = '1.5.0';
+const APP_VERSION = '1.6.0';
 const REPO = 'csuarezsm/Martin';
 const MAX_ARCHIVE = 500;
 const uid = () => Math.random().toString(36).slice(2, 10);

diff --git a/README.md b/README.md
@@ -2,7 +2,7 @@
 
 Un camello canario joven de Uga lleva el agua por los caminos que dejó la tormenta: lava, rocas, huecos y bajadas. **6 niveles de plataformas** con tres estrellas cada uno, a veces con dos caminos (uno rápido y arriesgado, otro lento y seguro), y un **reto diario** igual para todos con ranking.
 Para Android e iPhone. Gratis, sin anuncios y sin cuentas. App Capacitor + web (`www/`). Todo se guarda en el móvil; solo el reto diario usa el servidor de juegos (nombre y pulsaciones, para comprobar el tiempo).
-Paquete: `com.itcanarias.martin` · versión 1.5.0
+Paquete: `com.itcanarias.martin` · versión 1.6.0
 
 **iPhone y navegadores**: la misma app se publica como versión web instalable en https://csuarezsm.github.io/Martin/app/ (GitHub Pages, carpeta `docs/app`, copia de `www/`). En Safari: Compartir → «Añadir a pantalla de inicio». Tras cambiar `www/`, ejecuta `npm run web`.
 
